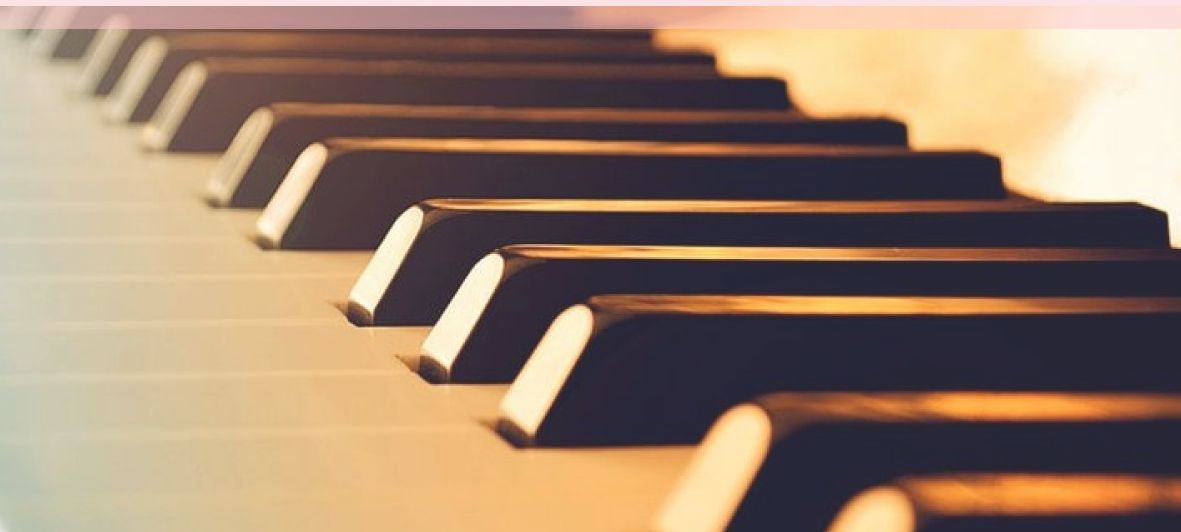
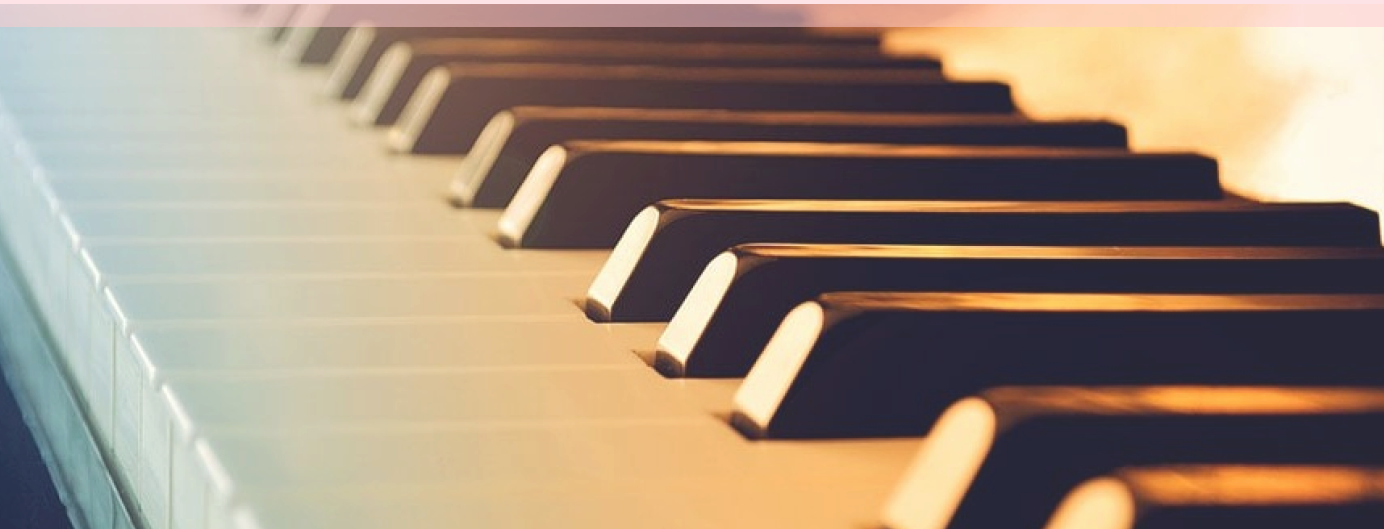
Versão oficialmente concluida

diff --git a/css/estilo.css b/css/estilo.css
@@ -67,21 +67,24 @@ main.botoes div.botao_de_login button {
     font-size: xx-large;
 }
 
-footer.piano div.foto_do_piano{
+footer.piano img{
     display: flex;
-    margin: 0;
+    justify-content: center;
+    width: max-content;
 
 }
 
-/* Cabeçalho de Login e Cadastro  = login.html e cadastro.html */
+/* Ícone da casinha em todos (menos partituras.html) */
 header.icone {
     display: flex;
     justify-content: flex-end;
 }
 
-header.icone div.icone_home a{
-    height: 50px;
-    width: 75px;
+header.icone div.icone_home a img{
+    width: 100px;
+    margin-top: 100px;
+    margin-left: 100px;
+    margin-right: 100px;
 }
 
 /*Formulário de cadastro = cadastro.html */
@@ -269,5 +272,98 @@ main.P section.H div a{
     justify-content: center;
 }
 
-/* Partitura do Sherlock Holmes = the_game_is_on.html */
+/* Partitura de Sherlock Holmes = the_game_is_on.html */
 
+header.icone div.SH h1 b{
+    color:white;
+    font-size: xx-large;
+    font-style: normal;
+    font-weight: 900;
+    display: flex;
+    justify-content: flex-start;
+    margin-top: 100px; 
+}
+
+main.part {
+    display: flex;
+    justify-content: center;
+} 
+
+/* Símbolo de Download */
+
+main.part section.download a img {
+    display: flex;
+    justify-content: flex-start;
+    width: 100px;
+    margin-left: 0;
+    margin-top: 100px;
+}
+/*                     */
+main.part section.partituraSH img {
+    display: flex;
+    justify-content: flex-start;
+    width: 500px;
+    margin-top: 100px;
+    margin-left: 50px;
+}
+ 
+main.part section.Sherlock img{
+    display: flex;
+    justify-content: flex-end;
+    margin-top: 45px;
+    width: 500px;
+}
+
+/* Partitura de Vals de Las Flores = vals_de_las_flores.html */
+
+header.icone div.VF h1 b{
+    color:white;
+    font-size: xx-large;
+    font-style: normal;
+    font-weight: 900;
+    display: flex;
+    justify-content: flex-start;
+    margin-top: 100px;  
+}
+
+main.part section.partituraVF img{
+    display: flex;
+    justify-content: flex-start;
+    width: 600px;
+    margin-top: 100px;
+    margin-left: 50px;
+}
+
+main.part section.bailarina img{
+    display: flex;
+    justify-content: flex-end;
+    margin-top: 100px;
+    width: 35px;
+}
+
+/* Partitura de Hallelujah = hallelujah.html */
+
+header.icone div.H h1 b{
+    color:white;
+    font-size: xx-large;
+    font-style: normal;
+    font-weight: 900;
+    display: flex;
+    justify-content: flex-start;
+    margin-top: 100px;  
+}
+
+main.part section.partituraH img{
+    display: flex;
+    justify-content: center;
+    width: 600px;
+    margin-top: 100px;
+    margin-left: 50px;
+}
+
+main.part section.Leonard img{
+    display: flex;
+    justify-content: flex-start;
+    margin-top: 200px;
+    width: 500px;
+}

diff --git a/the_game_is_on.html b/the_game_is_on.html
@@ -8,6 +8,28 @@
     <link rel="stylesheet" href="./css/estilo.css">
 </head>
 <body>
-    
+    <header class="icone">
+        <div class="SH">
+            <h1><b>SHERLOCK HOLMES THEME: THE GAME IS ON</b></h1>
+        </div>
+        <div class="icone_home">
+            <a href="./partituras.html">
+                <img src="./HOME_ICON/Homepage_icon.png" alt="Volte para a página inicial" >
+            </a>
+        </div>    
+    </header>
+    <main class="part">
+        <section class="download">
+            <a href="./PARTITURAS/SH/Partitura-the-game-is-on.png">
+                <img src="./PARTITURAS/Download/símbolo.png" alt="Clique aqui para baixar">
+            </a>
+        </section>
+        <section class="partituraSH">
+            <img src="./PARTITURAS/SH/Partitura-the-game-is-on.png" alt="Partitura gratuita">
+        </section>
+        <section class="Sherlock">
+            <img src="./PARTITURAS/SH/Sherlock.png" alt="Sherlock Holmes">
+        </section>
+    </main>
 </body>
 </html>

diff --git a/vals_de_las_flores.html b/vals_de_las_flores.html
@@ -8,6 +8,26 @@
     <link rel="stylesheet" href="./css/estilo.css">
 </head>
 <body>
-    
-</body>
+    <header class="icone">
+         <div class="VF">   
+            <h1><b> VALS DE LAS FLORES </b></h1>
+        </div>
+        <div class="icone_home">
+            <a href="./partituras.html">
+                <img src="./HOME_ICON/Homepage_icon.png" alt="Volte para a página inicial" >
+            </a>
+        </div>    
+    </header>
+    <main class="part">
+        <section class="download">
+            <a href="./PARTITURAS/VF/Vals de Las Flores.png">
+                <img src="./PARTITURAS/Download/símbolo.png" alt="Clique aqui para baixar">
+            </a>
+        </section>
+        <section class="partituraVF">
+            <img src="./PARTITURAS/VF/Vals de Las Flores.png" alt="Partitura gratuita">
+        </section>
+        <section class="Bailarina">
+            <img src="./PARTITURAS/VF/Bailarina.png" alt="Bailarina">
+        </section>
 </html>

diff --git a/hallelujah.html b/hallelujah.html
@@ -8,6 +8,28 @@
     <link rel="stylesheet" href="./css/estilo.css">
 </head>
 <body>
-    
+    <header class="icone">
+        <div class="H">
+            <h1><b> HALLELUJAH </b></h1>
+        </div>
+        <div class="icone_home">
+            <a href="./partituras.html">
+                <img src="./HOME_ICON/Homepage_icon.png" alt="Volte para a página inicial" >
+            </a>
+        </div>    
+    </header>
+    <main class="part">
+        <section class="Leonard">
+            <img src="./PARTITURAS/H/Leonard Cohen.png" alt="Cantor de Hallelujah">
+        </section>
+        <section class="partituraH">
+            <img src="./PARTITURAS/H/Hallelujah.png" alt="Partitura gratuita">
+        </section>
+        <section class="download">
+            <a href="./PARTITURAS/H/Hallelujah.png">
+                <img src="./PARTITURAS/Download/símbolo.png" alt="Clique aqui para baixar">
+            </a>
+        </section>
+    </main>
 </body>
 </html>

diff --git a/index.html b/index.html
@@ -35,7 +35,7 @@
     </main>
 
     <footer class="piano">
-    <img class="foto_do_piano" src="./HOME/Piano/piano.png" alt="Piano">
+        <img src="./HOME/Piano/piano.png" alt="Piano">
     </footer>
 </body>
 </html>
